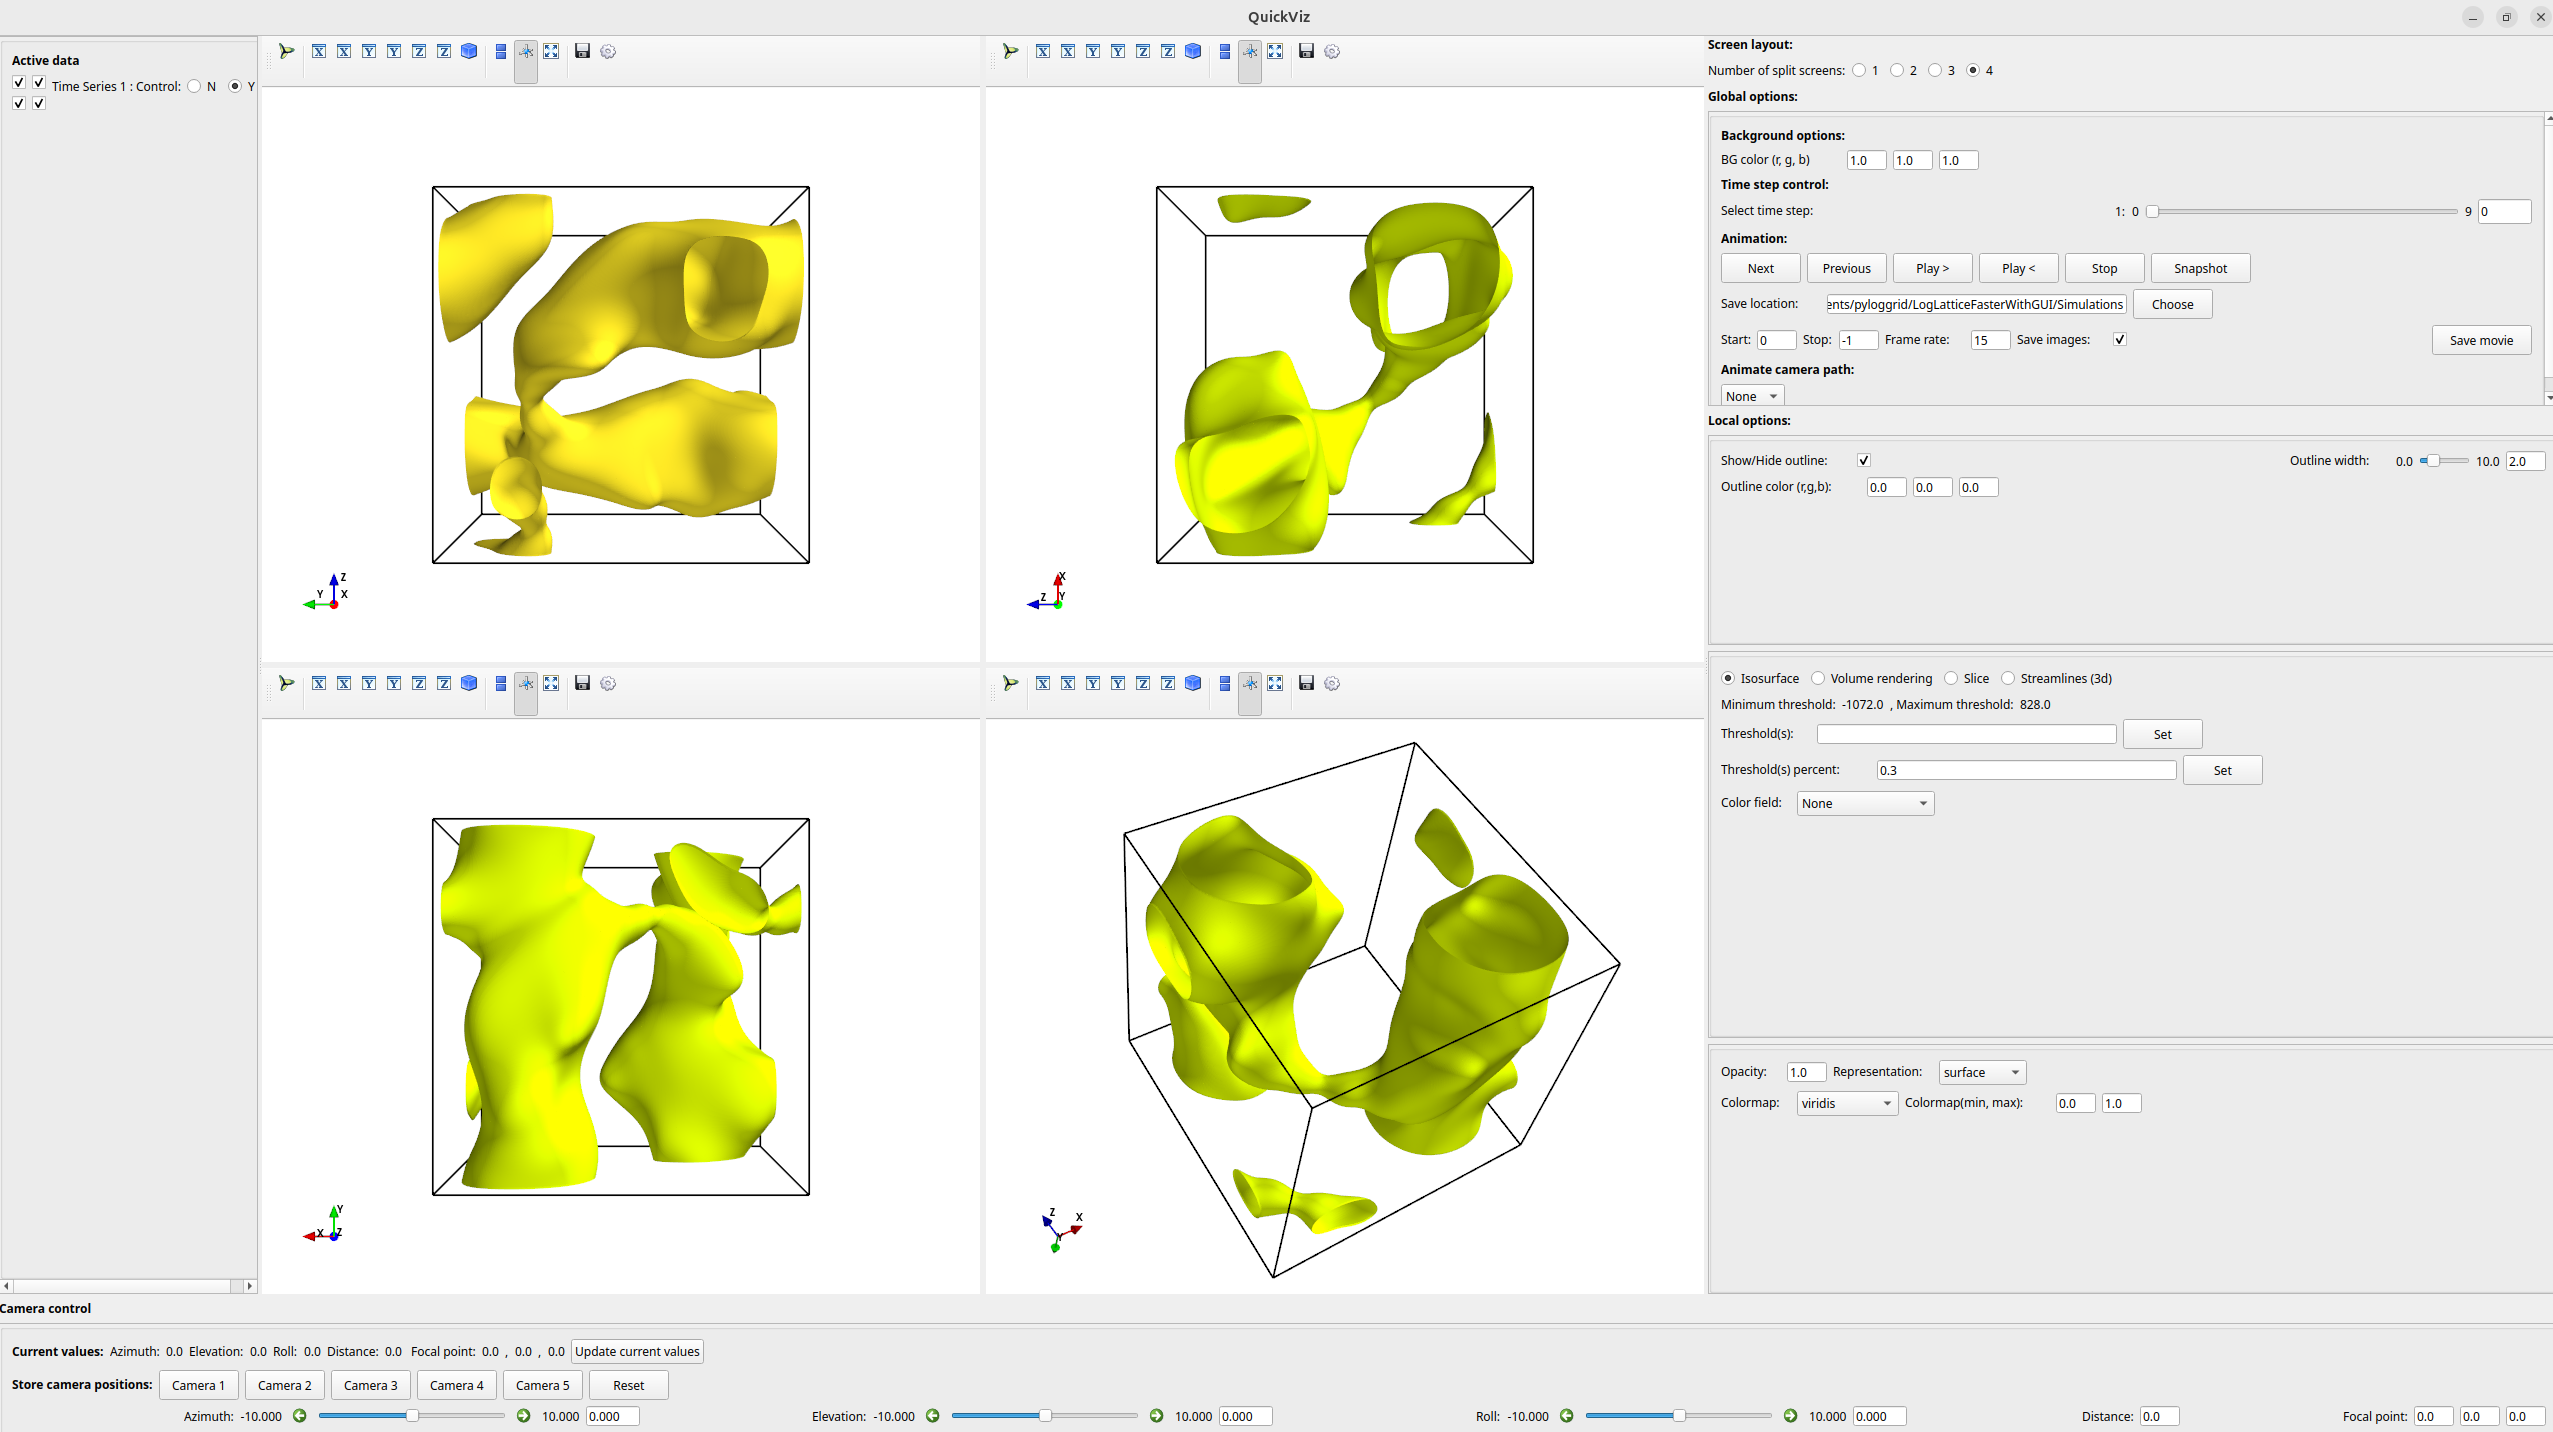
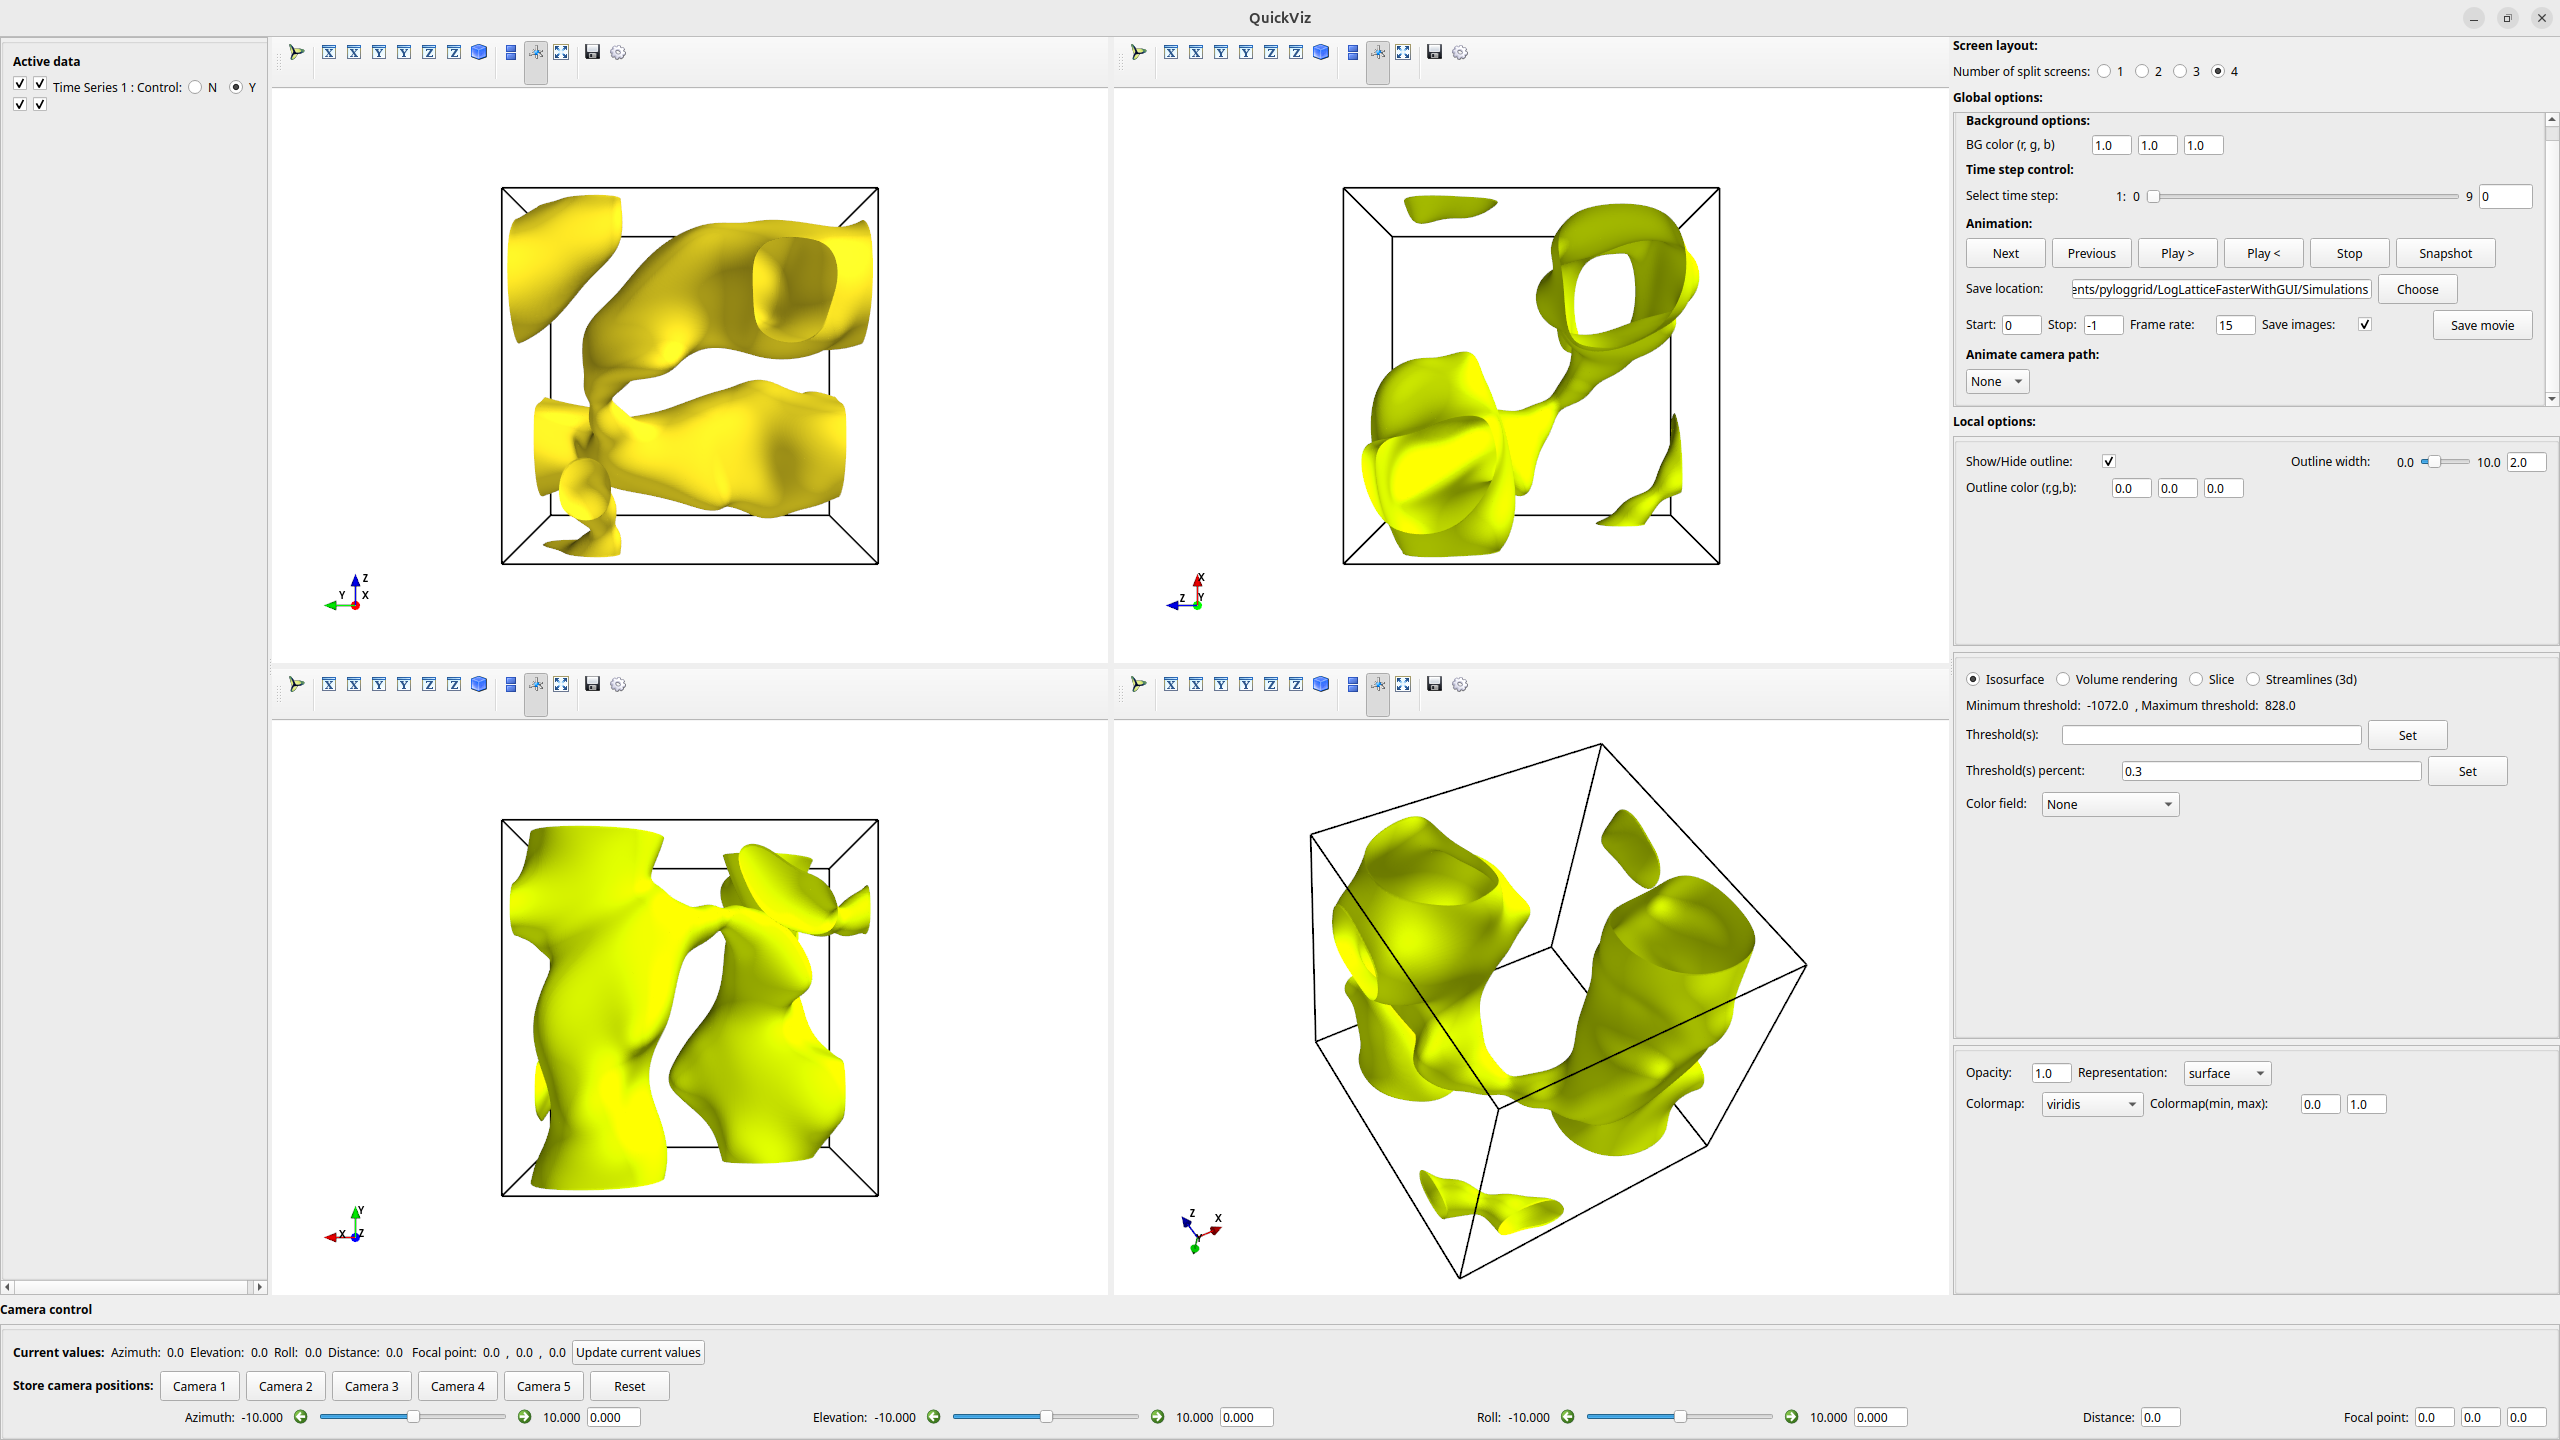
documentation: getting started

diff --git a/docs/index.rst b/docs/index.rst
@@ -7,20 +7,28 @@ Welcome to QuickViz's documentation!
 ====================================
 
 .. toctree::
-   :maxdepth: 2
-   :caption: Contents:
+   :maxdepth: 1
+   :caption: Getting started
+   
+   GettingStarted/InputData
+   
+.. toctree::
+   :maxdepth: 1
+   :caption: Data analysis
+
+.. toctree::
+   :maxdepth: 1
+   :caption: QuickViz + pyloggrid
 
 About
 #####
 
-QuickViz is a python-based visualization framework built with the `Mayavi <https://docs.enthought.com/mayavi/mayavi/>`_ engine. The UI is built with Enthought's `TraitsUI <https://docs.enthought.com/traitsui/>`_ framework. QuickViz as the name implies is intented for fast visualization of 3D time-series data, particularly those from numerical simulations and experimental datasets. 
+QuickViz is a python-based visualization and data analysis framework built with the `Mayavi <https://docs.enthought.com/mayavi/mayavi/>`_ engine. The UI is built with Enthought's `TraitsUI <https://docs.enthought.com/traitsui/>`_ framework. QuickViz as the name implies is intented for fast visualization of 3D time-series data, particularly those from numerical simulations and experimental datasets. 
 
-The software package currently supports the following:
-- Isosurfaces
-- Volume rendering
-- 2D slice (filled contours, streamlines with line integral convolution, vector slice)
-- 3D streamlines
+On the visualization side, the following are currently supported:
+.. - Isosurfaces
+.. - Volume rendering
+.. - 2D slice (filled contours, streamlines with line integral convolution, vector slice)
+.. - 3D streamlines
 
-* :ref:`genindex`
-* :ref:`modindex`
-* :ref:`search`
+

diff --git a/docs/GettingStarted/InputData.rst b/docs/GettingStarted/InputData.rst
@@ -1,0 +1,14 @@
+*************
+Data type
+*************
+
+Currently, the framework only supports data stored as raw binary. The precision can be either float or double.
+
+For the best performance during visualization, it is recommended to use data in float (unless for some reason you really need float).
+
+*************
+Eulerian data
+*************
+
+
+

diff --git a/README.md b/README.md
@@ -18,7 +18,7 @@ pip install --upgrade traitsui==7.4.3
 
 ## UI
 
-The UI allows you to split the screen up to a maximum of 4 panels, each with it's own view control. 
+The UI allows you to split the screen up to a maximum of 4 panels, each with it's own view control. The panels on the left and right are resizable.
 
 ![Screenshot](resources/Layout.png)
 
